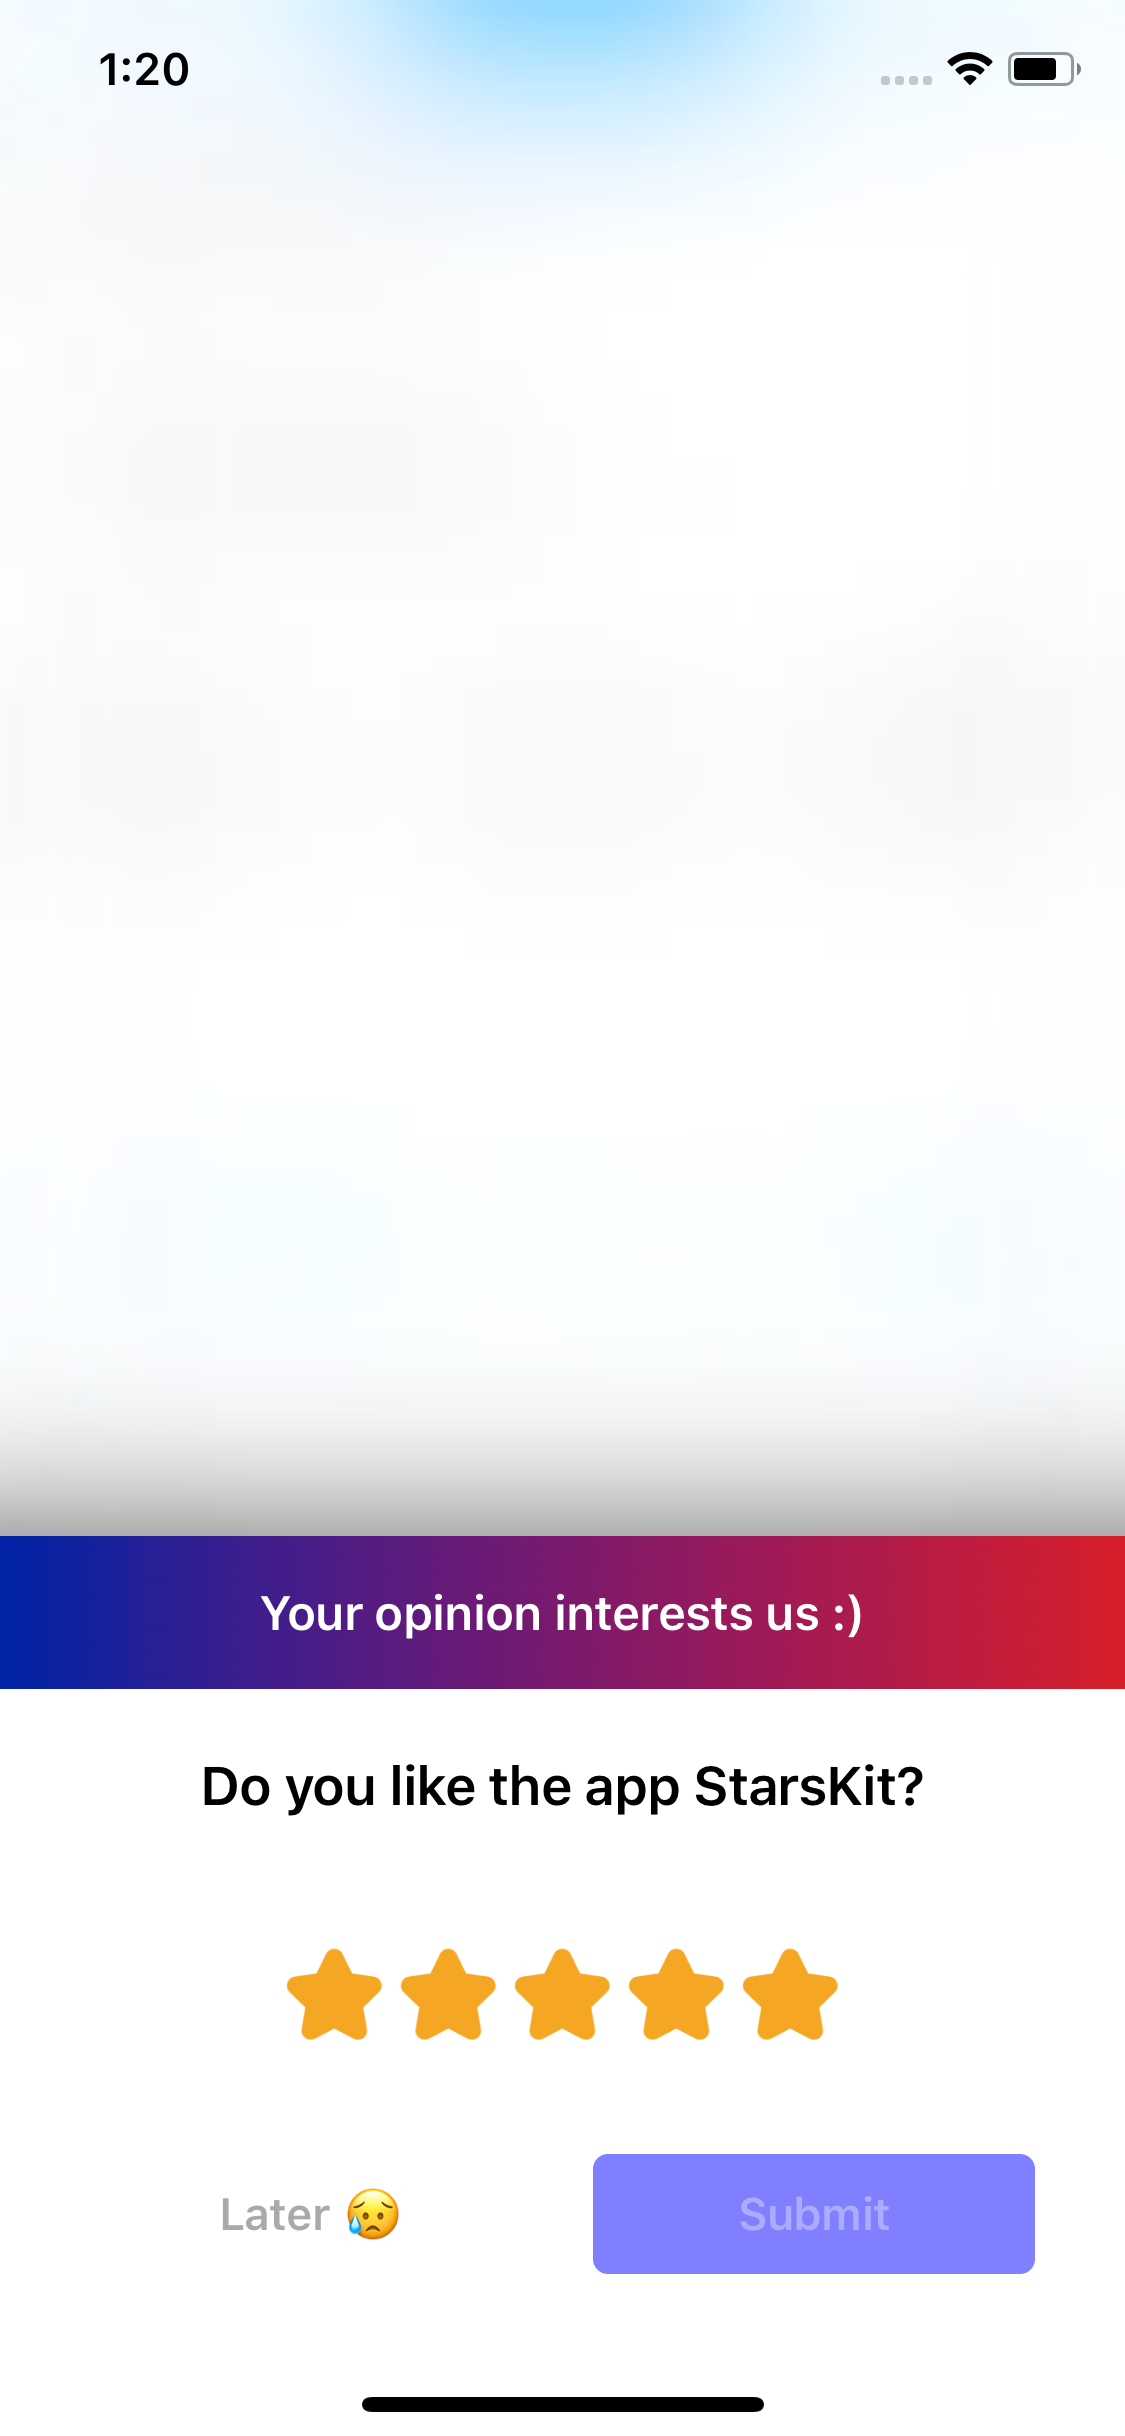
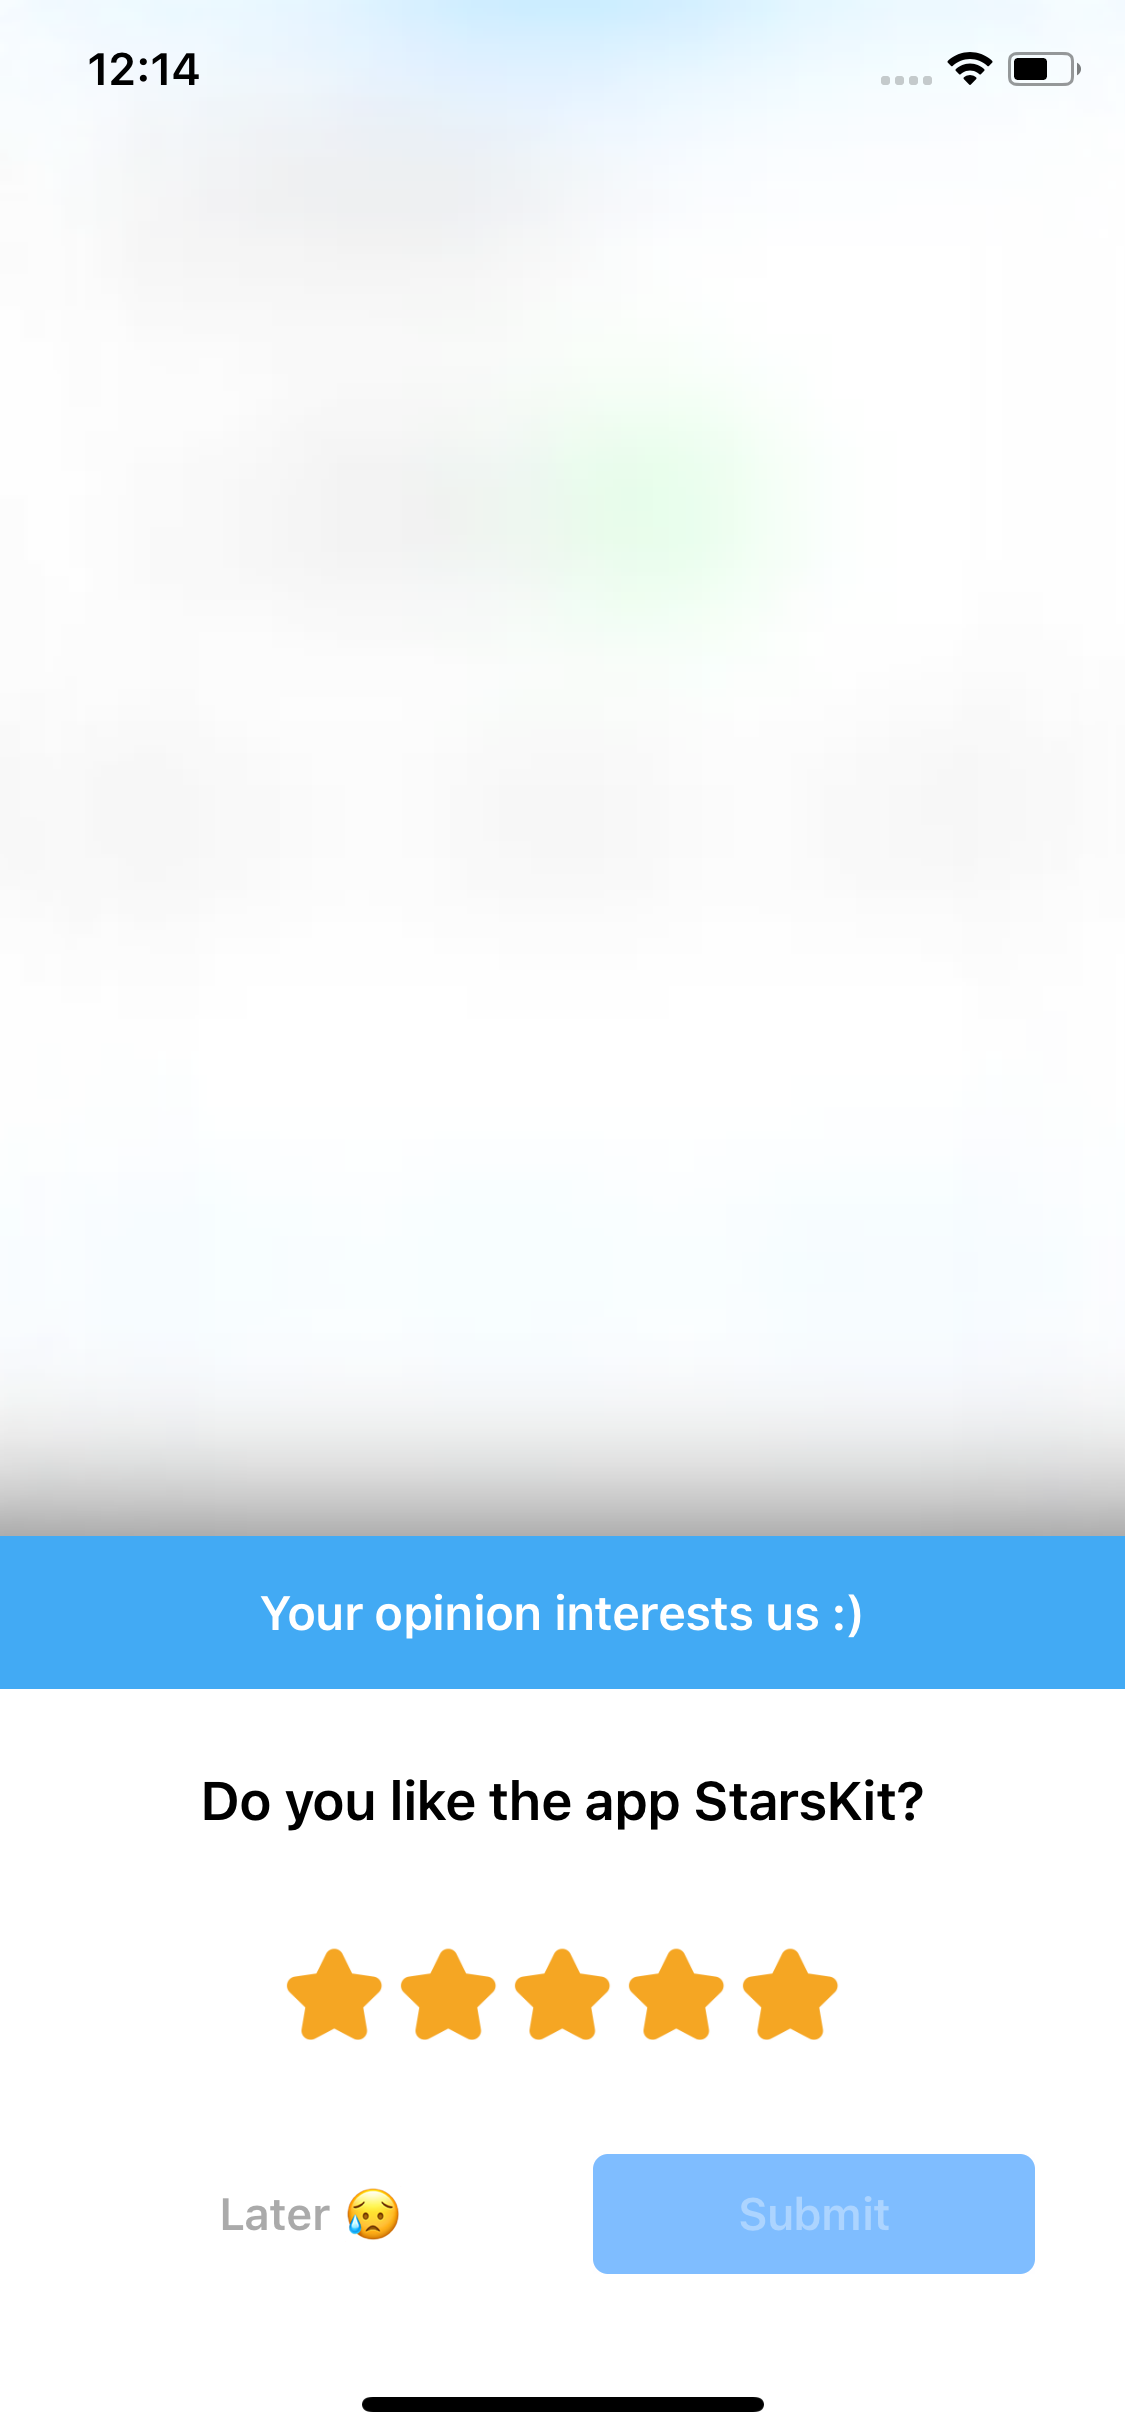
Update Screenshots

diff --git a/Example/StarsKit/ViewController.swift b/Example/StarsKit/ViewController.swift
@@ -66,10 +66,12 @@ class ViewController: UIViewController {
         let data = try Data(contentsOf: URL(fileURLWithPath: path))
         if let localJSONConfiguration = try JSONSerialization.jsonObject(with: data, options: .allowFragments) as? [String: Any?] {
           StarsKit.shared.updateConfig(from: localJSONConfiguration)
-          let bgImage = UIImage.gradient(from: UIColor.ex.fromHexa("#0024a6"),
-                                         end: UIColor.ex.fromHexa("#d8012a"),
-                                         rect: CGRect(x: 0, y: 0, width: 50, height: 50))
+//          let bgImageGradient = UIImage.gradient(from: CGS("#007BFF"),
+//                                         end: UIColor.ex.fromHexa("#FFC107"),
+//                                         rect: CGRect(x: 0, y: 0, width: 50, height: 50))
+          let bgImage = UIColor.ex.fromHexa("#42aaf4")?.ex.toImage()
           StarsKit.shared.graphicContext.backgroundHeaderTitleImage = bgImage
+          StarsKit.shared.graphicContext.actionButtonBackgroundColor = UIColor.ex.fromHexa("#007BFF")!
           StarsKit.shared.delegate = self
           StarsKit.shared.uiDelegate = self
           //          StarsKit.shared.graphicContext.emptyStarImage = nil
